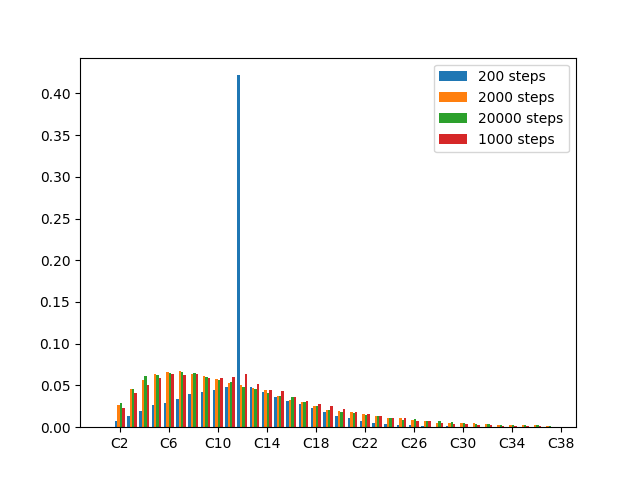
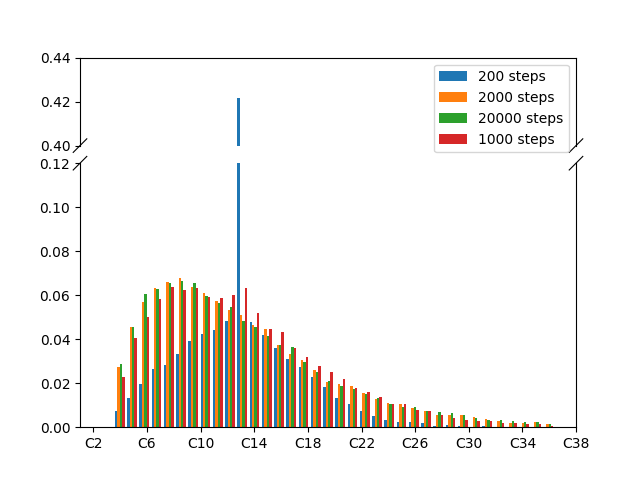
all tasks translated

diff --git a/olefin.py b/olefin.py
@@ -1,6 +1,7 @@
 import numpy as np
 import matplotlib.pyplot as plt
 import pandas as pd
+from brokenaxes import brokenaxes
 
 def rxnmix(molecules, nrrxn):
     dimstart = len(molecules)
@@ -46,7 +47,7 @@ def save_file(y_dict, fname):
     df = pd.DataFrame(data=y_dict)
     df.to_csv(fname, sep='\t')
 
-def plot_data(fname, total_width=0.8, legend_format=lambda x: x, slice_range=(1, 38), save_fig=None):
+def plot_data(fname, total_width=.8, legend_format=lambda x: x, slice_range=(1, 38), save_fig=None, ylims=None):
     df = pd.read_csv(fname, sep='\t', index_col=0)
     df = df[slice_range[0]: slice_range[1]]
     size = len(df)
@@ -60,17 +61,28 @@ def plot_data(fname, total_width=0.8, legend_format=lambda x: x, slice_range=(1,
     width = total_width / float(n)
     x = x - (total_width - width) / 2.0
 
-    i = 0
-    for k in y_dict.keys():
-        plt.bar(x + width * i, y_dict[k], width=width, label = legend_format(k))
-        i += 1
+    if ylims:
+        bax = brokenaxes(ylims=ylims, xlims=None, hspace=.1, despine=False)
+
+        i = 0
+        for k in y_dict.keys():
+            bax.bar(x + width * i, y_dict[k], width=width, label = legend_format(k))
+            i += 1
+        bax.axs[0].set_xticks([])
+        bax.axs[1].set_xticks([])
+        bax.legend()
+    else:
+        i = 0
+        for k in y_dict.keys():
+            plt.bar(x + width * i, y_dict[k], width=width, label = legend_format(k))
+            i += 1
+        plt.legend()
+
 
     n_ticks = (slice_range[1] + 2) / 4
     x_positions = [i * 4 + 1 for i in range(n_ticks)]
     x_values = ["C{0}".format(i * 4 + 2) for i in range(n_ticks)]
     plt.xticks(x_positions, x_values)
-
-    plt.legend()
 
     if save_fig:
         plt.savefig(save_fig)
@@ -82,15 +94,20 @@ def steps_format(key):
 def init_molecules12():
     return np.array([12] * 200)
 
+def init_molecules3():
+    return np.array([3] * 200)
+
+def init_molecules6():
+    return np.array([6] * 200)
+
 def init_molecules_C6_C18(portion = (100, 100)):
     return np.array([6] * portion[0] + [18] * portion[1])
 
-TASK = [1, 2]
+TASK = [2, 3]
 
 # task 1
 def __main__():
     if 1 in TASK:
-        '''
         print("conducting task 1")
         y = dict()
         n_steps_list = [200, 1000, 2000, 20000]
@@ -98,20 +115,27 @@ def __main__():
             print("\t simulating the process of steps {0}".format(n_steps))
             y[n_steps] = run_simulator(init_molecules12, n_steps)
         save_file(y, "task_1.csv")
-        '''
-        plot_data("task_1.csv", legend_format=steps_format, save_fig="task_1.png")
+        plot_data("task_1.csv", legend_format=steps_format, save_fig="task_1.png", ylims=((0, 0.12), (0.4,0.44)))
     if 2 in TASK:
-        '''
         print("conducting task 2: 2000 steps, C12 vs C6/C18 1:1")
         n_steps = 2000
         components_dict = {"C12": init_molecules12, "C6/C18 1:1": init_molecules_C6_C18}
         y = dict()
         for component in components_dict.keys():
             print("\t simulating the process of {0}".format(component))
-            y[component] = run_simulator(init_molecules12, n_steps)
+            y[component] = run_simulator(components_dict[component], n_steps)
         save_file(y, "task_2.csv")
-        '''
         plot_data("task_2.csv", save_fig="task_2.png")
+    if 3 in TASK:
+        print("conducting task 3: 2000 steps, C3 vs C6 VS C12")
+        n_steps = 2000
+        components_dict = {"C3": init_molecules3, "C6": init_molecules6, "C12": init_molecules12}
+        y = dict()
+        for component in components_dict.keys():
+            print("\t simulating the process of {0}".format(component))
+            y[component] = run_simulator(components_dict[component], n_steps)
+        save_file(y, "task_3.csv")
+        plot_data("task_3.csv", save_fig="task_3.png")
 
 __main__()
 
